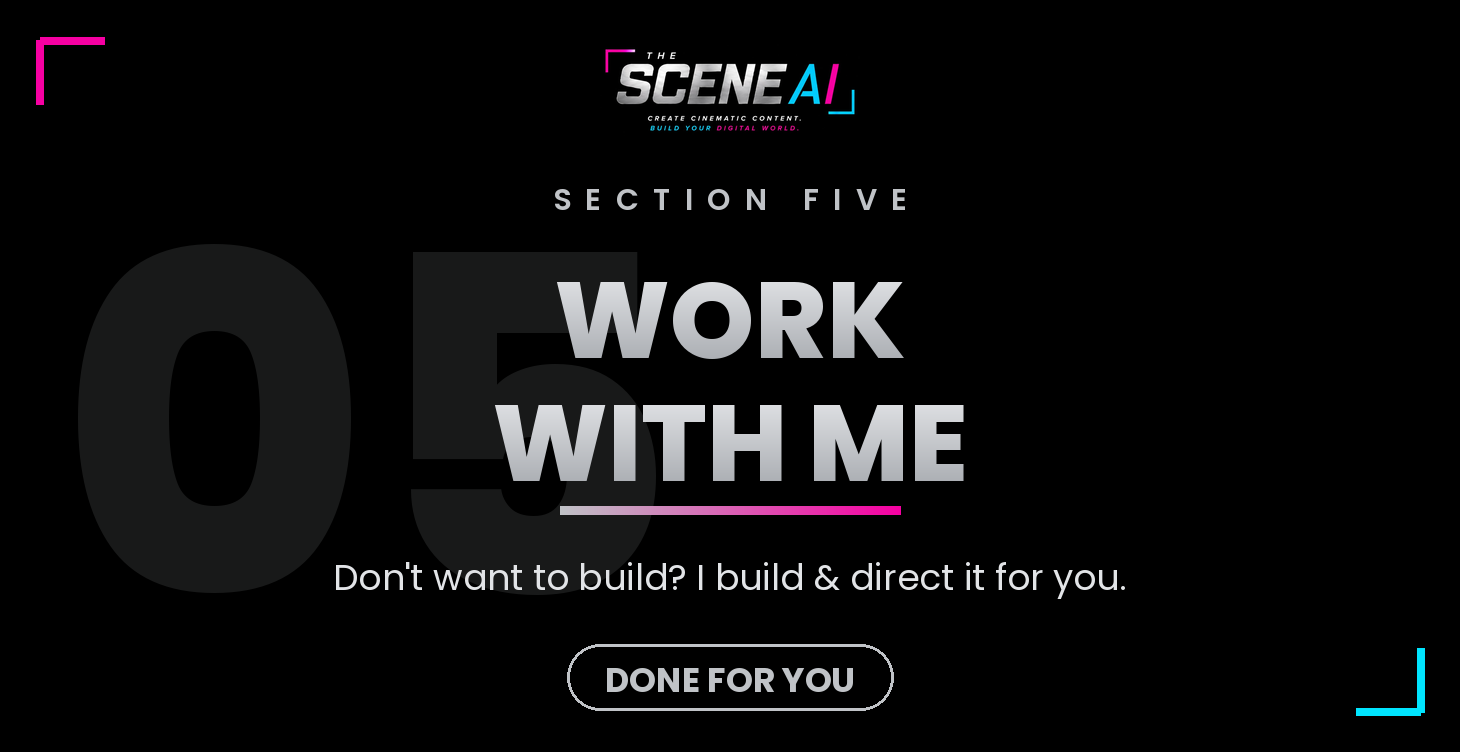
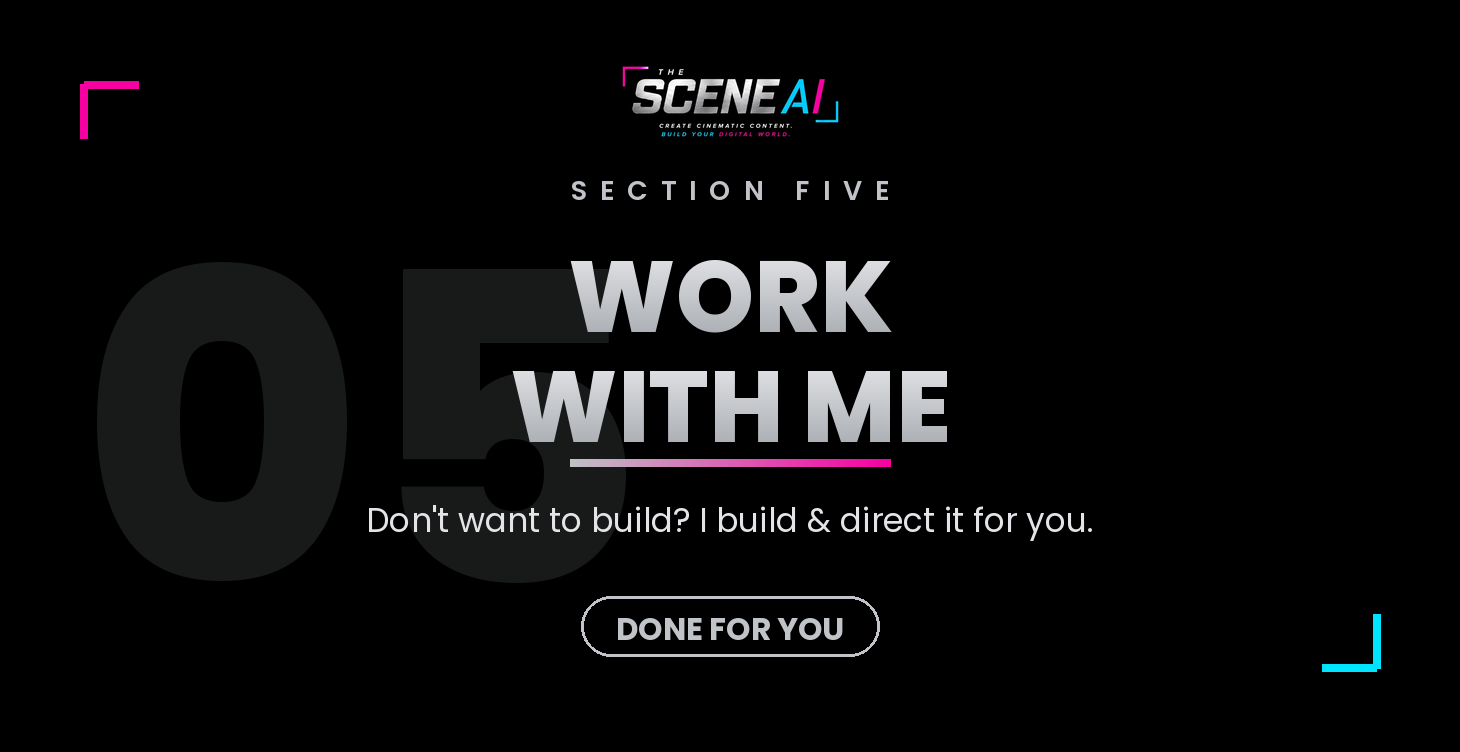
Mobile-safe classroom covers: chips and brackets pulled inside Skool's mobile crop zone
Claude-Session: https://claude.ai/code/session_01Y18hdn9vP2ZEi64tT3hWSb

diff --git a/scene-os/marketing/classroom_covers.py b/scene-os/marketing/classroom_covers.py
@@ -52,54 +52,54 @@ def cover(fname, accent, ghost, kick, title_lines, desc, chip, lock=False):
     img = Image.new('RGB', (W, H), (0, 0, 0))
     d = ImageDraw.Draw(img)
     # ghost glyph, off-center left
-    gf = font('Poppins-ExtraBold', 470 if len(ghost) <= 2 else 300)
+    gf = font('Poppins-ExtraBold', 430 if len(ghost) <= 2 else 280)
     dark = tuple(int(c * 0.13) for c in accent)
-    d.text((60, H // 2 - gf.size // 2 - 40), ghost, font=gf, fill=dark)
-    bracket(d, 40, 40, 64, 'tl', MAG)
-    bracket(d, W - 40, H - 40, 64, 'br', CYAN)
+    d.text((80, H // 2 - gf.size // 2 - 30), ghost, font=gf, fill=dark)
+    # brackets pulled inside the mobile-safe zone
+    bracket(d, 84, 84, 54, 'tl', MAG)
+    bracket(d, W - 84, H - 84, 54, 'br', CYAN)
     # logo
     logo = Image.open(LOGO)
-    lw = 260
+    lw = 225
     lh = int(lw * logo.height / logo.width)
-    img.paste(logo.resize((lw, lh), Image.LANCZOS), (W // 2 - lw // 2, 44))
+    img.paste(logo.resize((lw, lh), Image.LANCZOS), (W // 2 - lw // 2, 62))
     d = ImageDraw.Draw(img)
-    y = 44 + lh + 42
+    y = 62 + lh + 30
     # kicker
-    kf = font('Poppins-SemiBold', 30)
+    kf = font('Poppins-SemiBold', 27)
     spaced = '  '.join(kick)
     kw = d.textlength(spaced, kf)
     d.text((W // 2 - kw / 2, y), spaced, font=kf, fill=accent)
-    y += 66
+    y += 56
     # title
-    size = 108 if max(len(t) for t in title_lines) <= 16 else 84
+    size = 100 if max(len(t) for t in title_lines) <= 16 else 78
     tf = font('Poppins-ExtraBold', size)
     for ln in title_lines:
         metal_text(img, W // 2, y, ln, tf)
-        y += int(tf.size * 1.14)
+        y += int(tf.size * 1.1)
     d = ImageDraw.Draw(img)
-    y += 16
-    gradient_bar(d, W // 2, y, 340, 8, accent, MAG if accent != MAG else CYAN)
-    y += 46
-    df = font('Poppins-Regular', 36)
+    y += 12
+    gradient_bar(d, W // 2, y, 320, 7, accent, MAG if accent != MAG else CYAN)
+    y += 38
+    df = font('Poppins-Regular', 33)
     dw = d.textlength(desc, df)
     d.text((W // 2 - dw / 2, y), desc, font=df, fill=(226, 228, 231))
-    # chip bottom
-    cf = font('Poppins-Bold', 34)
-    pad = 44 if lock else 0
-    cw = d.textlength(chip, cf) + 76 + pad
-    cy = H - 108
-    d.rounded_rectangle([W // 2 - cw / 2, cy, W // 2 + cw / 2, cy + 66],
-                        33, outline=accent, width=3)
-    tx = W // 2 - (cw - 76) / 2 + pad
+    # chip fully inside the safe zone
+    cf = font('Poppins-Bold', 31)
+    pad = 40 if lock else 0
+    cw = d.textlength(chip, cf) + 70 + pad
+    cy = H - 156
+    d.rounded_rectangle([W // 2 - cw / 2, cy, W // 2 + cw / 2, cy + 60],
+                        30, outline=accent, width=3)
+    tx = W // 2 - (cw - 70) / 2 + pad
     if lock:
-        lx, ly = tx - 44, cy + 20
-        d.arc([lx + 4, ly - 12, lx + 24, ly + 10], 180, 360, fill=accent, width=4)
-        d.rounded_rectangle([lx, ly + 4, lx + 28, ly + 28], 5, fill=accent)
-    d.text((tx, cy + 12), chip, font=cf, fill=accent)
+        lx, ly = tx - 40, cy + 17
+        d.arc([lx + 3, ly - 10, lx + 21, ly + 9], 180, 360, fill=accent, width=4)
+        d.rounded_rectangle([lx, ly + 3, lx + 25, ly + 25], 4, fill=accent)
+    d.text((tx, cy + 11), chip, font=cf, fill=accent)
     os.makedirs(OUT, exist_ok=True)
     img.save(os.path.join(OUT, fname))
     print('wrote', fname)
-
 
 cover('cover-01-start-here.png', LIME, '01', 'SECTION ONE',
       ['START HERE'], 'Your first locked character, today. Free.',
